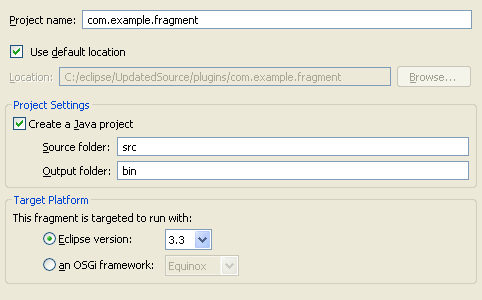
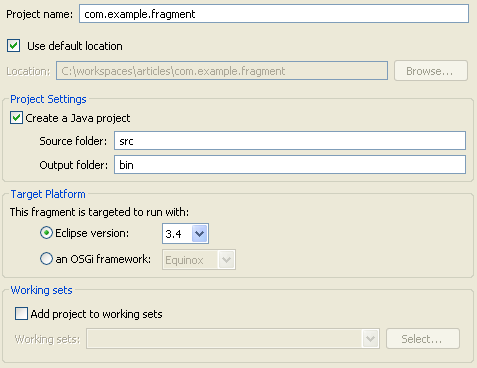
more updates to pde docs (fragments)

diff --git a/bundles/org.eclipse.pde.doc.user/guide/tools/project_wizards/plugin_content.htm b/bundles/org.eclipse.pde.doc.user/guide/tools/project_wizards/plugin_content.htm
@@ -30,7 +30,7 @@
 <p>A <strong>Plug-in Version</strong> is mandatory and must be of the form <em>major.minor.micro.qualifier</em> (e.g. 1.3.0).</p>
 <p>A <strong>Plug-in Name</strong> is the translatable presentation name of the plug-in. This field is required. </p>
 <p>A <strong>Plug-in Provider</strong> is the translatable name of the plug-in provider. This field is optional. </p>
-<p><strong>Execution Environment</strong> refers to the required <a href="http://wiki.eclipse.org/EE">execution environment</a> (symbolic representation of a JRE) of you're plug-in. This field is optional but recommended to be set.</p>
+<p><strong>Execution Environment</strong> refers to the required <a href="http://wiki.eclipse.org/EE">execution environment</a> (symbolic representation of a JRE) of your plug-in. This field is optional but recommended to be set.</p>
 <p>&nbsp;</p>
 <p class="style2">Plug-in Options </p>
 <p>An <strong>activator</strong> is a Java class that controls the plug-in's life cycle. It is only needed if you require to do work upon the startup or shutdown of your plug-in. </p>

diff --git a/bundles/org.eclipse.pde.doc.user/guide/tools/project_wizards/fragment_content.htm b/bundles/org.eclipse.pde.doc.user/guide/tools/project_wizards/fragment_content.htm
@@ -30,7 +30,7 @@
 <p>A <strong>Fragment Version</strong> is mandatory and must be of the form <em>major.minor.micro.qualifier</em> (e.g. 1.3.0).</p>
 <p>A <strong>Fragment Name</strong> is the translatable presentation name of the fragment. This field is required. </p>
 <p>A <strong>Fragment Provider</strong> is the translatable name of the fragment provider. This field is optional. </p>
-<p><strong>Classpath</strong> refers to the location of the code once the fragment is packaged. As of Eclipse 3.1, it is recommended to ship fragments as JARs with code at the root of the JAR and leave the classpath field empty. </p>
+<p><strong>Execution Environment</strong> refers to the required <a href="http://wiki.eclipse.org/EE">execution environment</a> (symbolic representation of a JRE) of your plug-in. This field is optional but recommended to be set.</p>
 <p>&nbsp;</p>
 <p class="style2">Host Plug-in</p>
 <p>A fragment must specify a host plug-in that it will add functionality to and the host version range that it requires. </p>

diff --git a/bundles/org.eclipse.pde.doc.user/guide/tools/project_wizards/fragment_structure.htm b/bundles/org.eclipse.pde.doc.user/guide/tools/project_wizards/fragment_structure.htm
@@ -41,6 +41,9 @@
 <p class="style2">Equinox vs. Standard</p>
 <p>When targeting an OSGi framework, you have a choice between the <strong>Equinox</strong> and <strong>standard</strong> frameworks. The Equinox OSGi framework augments the <em>MANIFEST.MF</em> content with Eclipse-specific headers (e.g. <strong>Eclipse-LazyStart</strong>) and directives (e.g. <strong>x-friends</strong>). If you do not wish to use these Eclipse-specific headers and attributes, then choose the <strong>standard</strong> option. </p>
 <p>&nbsp; </p>
+<p class="style2">Working Sets</p>
+<p>For convenience, plug-in projects can easily be associated with working sets which are defined in the workbench. </p>
+<p>&nbsp; </p>
 <p>&nbsp;</p>
 </body>
 
